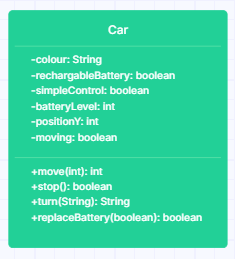
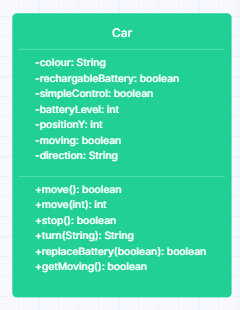
Test boolean move() fail

Changed region(s): [[0.0298, 0.0309, 0.983, 0.9575], [0.0596, 0.9575, 0.9532, 0.9884]]

diff --git a/src/test/java/com/booleanuk/core/CarTest.java b/src/test/java/com/booleanuk/core/CarTest.java
@@ -11,4 +11,9 @@ public class CarTest {
     public void testMove(){
         Assertions.assertEquals(5, car.move(5));
     }
+
+    @Test
+    public void testMoveNoParameter(){
+        Assertions.assertTrue(car.move());
+    }
 }

diff --git a/src/main/java/com/booleanuk/core/Car.java b/src/main/java/com/booleanuk/core/Car.java
@@ -20,6 +20,10 @@ public class Car {
         this.direction = "vertical";
     }
 
+    public boolean move(){
+        return moving;
+    }
+
     public int move(int i){
         positionY += i;
         return positionY;
